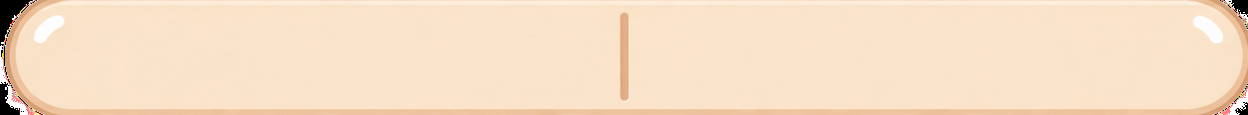
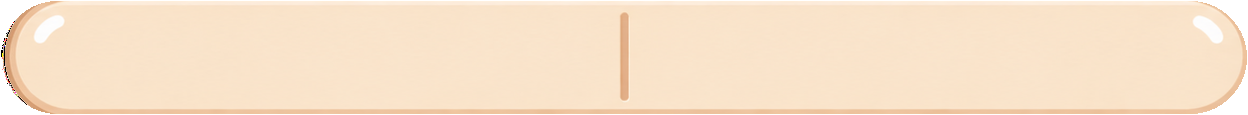
fix: 档案弹窗五项精调（输入框贴宽/标题加空/添加键圆角/滚动条商店同款）+ 二分栏素材胶囊抠边

Changed region(s): [[0.0, 0.6522, 1.0, 1.0], [0.0, 0.0, 1.0, 0.3391]]

diff --git a/petpet/ui/memory_profile.py b/petpet/ui/memory_profile.py
@@ -17,7 +17,6 @@ from PyQt5.QtWidgets import (
     QLabel,
     QLineEdit,
     QScrollArea,
-    QSizePolicy,
     QVBoxLayout,
     QWidget,
 )
@@ -32,6 +31,8 @@ from petpet.chat.memory import (
 from petpet.progression.ui import FeedbackButton
 
 _DIALOG_W, _DIALOG_H = 850, 960
+_EDIT_EXTRA_PX = 52   # 输入框比文字多出的余量（2026-09-11 用户定稿）
+_EDIT_MIN_PX = 150
 _BUCKET_HINTS = {
     "称呼": "你希望 TA 怎么称呼你",
     "作息": "起床、睡觉、上下班时间",
@@ -63,7 +64,7 @@ QPushButton#profileClose {{ background:transparent; border:0;
 QPushButton#profileClose:hover {{ background:#ffcfc5; color:#bf5c52;
     border-radius:14px; }}
 QPushButton#addFact {{ background:#fffaf6; color:#c07a52;
-    border:1px solid #eccdb9; border-radius:12px; padding:3px 12px;
+    border:1px solid #eccdb9; border-radius:15px; padding:6px 20px;
     font-size:15px; font-weight:700;
     font-family:'{APP_FONT_FAMILY}'; }}
 QPushButton#addFact:hover {{ background:#ffe8dc; border-color:#dda993; }}
@@ -85,6 +86,9 @@ QPushButton#cancelProfile:hover {{ background:#ffe8dc;
     border-color:#dda993; }}
 QPushButton#cancelProfile:pressed {{ background:#ffdcd0; }}
 QScrollArea#profileScroll {{ background:transparent; border:0; }}
+QScrollBar:vertical {{ background:transparent; width:11px; margin:4px 0; }}
+QScrollBar::handle:vertical {{ background:#e8bfa8; border-radius:5px; min-height:38px; }}
+QScrollBar::add-line:vertical, QScrollBar::sub-line:vertical {{ height:0; }}
 QWidget#profileScrollBody {{ background:transparent; }}
 QFrame#bucketCard {{ background:#fffdf7; border:1px solid #f0e0d0;
     border-radius:16px; }}
@@ -102,6 +106,9 @@ class MemoryProfileDialog(QDialog):
         self.setAttribute(Qt.WA_TranslucentBackground)
         self.setModal(True)
         self.setFixedSize(_DIALOG_W, _DIALOG_H)
+        # 与聊天窗同位置同大小（2026-09-11 用户定稿）：显式钉到父窗左上角。
+        if parent is not None:
+            self.move(parent.geometry().topLeft())
         self.result_facts = None
         self._facts = {
             bucket: [str(item) for item in ((facts or {}).get(bucket) or [])]
@@ -120,7 +127,7 @@ class MemoryProfileDialog(QDialog):
             os.path.join(SHOP_UI_DIR, "background.png"))
 
         outer = QVBoxLayout(root)
-        outer.setContentsMargins(34, 26, 34, 22)
+        outer.setContentsMargins(40, 30, 40, 22)
         outer.setSpacing(12)
         outer.addLayout(self._build_title_row(pet_name))
 
@@ -129,15 +136,17 @@ class MemoryProfileDialog(QDialog):
         scroll.setFrameShape(QFrame.NoFrame)
         scroll.setWidgetResizable(True)
         scroll.setHorizontalScrollBarPolicy(Qt.ScrollBarAlwaysOff)
+        # 滚动条常驻（2026-09-11 用户定稿）：有/无溢出内容恒等宽；
+        # 样式与商店一致（槽透明 + 珊瑚棕圆角手柄）。
+        scroll.setVerticalScrollBarPolicy(Qt.ScrollBarAlwaysOn)
         body = QWidget()
         body.setObjectName("profileScrollBody")
         self._body_layout = QVBoxLayout(body)
         self._body_layout.setContentsMargins(6, 4, 6, 4)
         self._body_layout.setSpacing(12)
         for bucket in PROFILE_BUCKETS:
-            card = self._build_bucket_card(bucket)
-            card.setSizePolicy(QSizePolicy.Expanding, QSizePolicy.Expanding)
-            self._body_layout.addWidget(card)
+            self._body_layout.addWidget(self._build_bucket_card(bucket))
+        self._body_layout.addStretch(1)
         for bucket in PROFILE_BUCKETS:
             self._refresh_bucket_chrome(bucket)
         scroll.setWidget(body)
@@ -158,7 +167,7 @@ class MemoryProfileDialog(QDialog):
         self._close_btn.clicked.connect(self.reject)
 
         title_col = QVBoxLayout()
-        title_col.setSpacing(0)
+        title_col.setSpacing(8)
         title_col.addWidget(title)
         title_col.addWidget(hint)
 
@@ -191,7 +200,7 @@ class MemoryProfileDialog(QDialog):
         card = QFrame()
         card.setObjectName("bucketCard")
         layout = QVBoxLayout(card)
-        layout.setContentsMargins(22, 16, 22, 18)
+        layout.setContentsMargins(18, 12, 18, 14)
         layout.setSpacing(10)
 
         head = QHBoxLayout()
@@ -232,9 +241,12 @@ class MemoryProfileDialog(QDialog):
         delete.setFixedSize(26, 26)
         delete.setCursor(Qt.PointingHandCursor)
         row = QHBoxLayout()
-        row.setSpacing(6)
-        row.addWidget(edit, 1)
+        row.setSpacing(8)
+        row.addWidget(edit)
         row.addWidget(delete)
+        row.addStretch(1)
+        edit.textChanged.connect(lambda _t, e=edit: self._fit_edit(e))
+        self._fit_edit(edit)
 
         def remove(_checked=False, b=bucket, e=edit):
             for entry in list(self._rows[b]):
@@ -267,6 +279,12 @@ class MemoryProfileDialog(QDialog):
         add = self._add_buttons.get(bucket)
         if add is not None:
             add.setEnabled(n < cap)
+
+    def _fit_edit(self, edit):
+        """输入框宽度贴内容：比文字略宽一点（2026-09-11 用户定稿）。"""
+        text_w = edit.fontMetrics().horizontalAdvance(edit.text())
+        edit.setFixedWidth(max(
+            _EDIT_MIN_PX, text_w + _EDIT_EXTRA_PX))
 
     def collect_edits(self):
         """读 UI 当前内容 → 原始 facts dict（未清洗）。"""

diff --git a/HANDOFF.md b/HANDOFF.md
@@ -51,7 +51,7 @@ D:\Agent_project\Petpet
 
 | 领域 | 内容 |
 |------|------|
-| **纠偏：套装键还原 + 商店二分栏 + 档案弹窗撑满**（2026-09-11 第二批） | 用户指正素材表用途：① **tab_outfit.png 原样还原**（烘焙稿撤下，勿再动宠物面板分栏键）；② 素材表 bar1（2 格）→ **刻度归一化到精确 50%** 后落 `shop/chip_bar_2seg.png`，接 `QFrame#outfitPetSelector` border-image 专属规则（照 giftFilterBar 先例），套装页宠物选择器撤 chipBar 属性（boundary 测试同步）；③ **档案弹窗 620×760 → 850×960 撑满整页**：字号全面放大（标题 30/栏名 24/输入 20/底部键 20），六卡 Expanding 均分填满高度。验证：受影响 59 测试绿 + 实平台渲染验收（二分栏药丸托盘圆头/刻度正常、弹窗六卡填满无大空白）+ 全量后台复跑 + 重启 PID 36964。 |
+| **纠偏：套装键还原 + 商店二分栏 + 档案弹窗三轮调**（2026-09-11 第二/三批） | 用户指正素材表用途：① **tab_outfit.png 原样还原**（烘焙稿撤下，勿再动宠物面板分栏键）；② 素材表 bar1（2 格）→ **刻度归一化精确 50%** + **胶囊 alpha 遮罩抠角**（四角 alpha=0——AI 素材表裁切 bbox 四角必带底色残，遮罩是标准修法）落 `shop/chip_bar_2seg.png`，接 `QFrame#outfitPetSelector` border-image（照 giftFilterBar 先例），套装页宠物选择器撤 chipBar 属性；③ 档案弹窗三轮：撑满 850×960 同聊天窗（`move(parent.geometry().topLeft())`）→ 用户反馈五项精调：**输入框贴内容宽**（`_fit_edit`：max(150, 文字宽+52)，textChanged 实时；行=编辑+删除+弹簧）、标题区加空（spacing 8/边距 40,30）、添加键胶囊（radius 15）、**卡片收高贴内容**（撤 Expanding，尾弹簧，页面下方留爪印背景）、**滚动条常驻+商店同款**（AlwaysOn 恒等宽不挤占 + 槽透明宽 11/手柄 #e8bfa8 圆角 5）。**坑位：视觉模型把米白卡片底（#fffdf7）误读成整行输入框（与输入框底 #fffaf4 每通道差 3）——低对比同色系验收用控件几何 dump 别信视觉**。验证：全量 **783** + 真平台几何 dump（150-222px 固定宽/滚动条 11）+ 重启 PID 31872。 |
 | **分栏素材库 + 聊天档案入口**（2026-09-11） | **套装键换新**（**当日已还原，见上行**）：用户分栏素材表（2172×724 无字奶油千层底板库，程序化列色低谷检测出 2/3/4/6 格四条栏）——取 bar3 左段 + **右端 70px 镜像圆头**（连续胶囊裁段必带平边）+ 通道增益奶黄化（avg 243,210,170）+ **Qt 真平台烘焙「套装」**（幼圆/深棕 (80,52,34) 平涂/约 1/5 图高，对齐 tab_gift 实测风格）→ 379×114；全表+四条栏归档 `tab_bars_sheet_source.png`/`tab_bar_row1..4.png` 备用（未来接 chipBar 按"逐槽拉伸归一化刻度"复用）。**视觉模型 CDN 坑已解：URL 反斜杠/空格百分号编码后可正常解析**。**聊天档案入口（B6）**：聊天窗标题行「档案」键（busy 时随工具排禁用，防后台每 6 轮抽取并发写）→ `ui/memory_profile.py::MemoryProfileDialog` 六栏查看/编辑（上限 3/4/8/6/8/4、maxLength 60、添加满栏禁用、空行保存丢弃、FeedbackButton 保存/取消）；`memory.sanitize_edited_facts` 清洗网兜底旁路输入；保存同步 legacy `user_profile` 并立即落盘。坑位：**未初始化 PyQt 对象属性访问抛 RuntimeError 非 AttributeError（`__new__` 薄壳测试必须补齐依赖属性）**；patch 掉 Dialog 后 handler 改比 `QDialog.Accepted`。验证：全量 **783 passed**（+9）+ 实平台渲染双验收（三键对照/弹窗六栏计数）+ 重启 PID 2084。详见 Obsidian `开发记录6-09-11 分栏素材库与聊天档案入口` |
 | **装修全景 + 平移移除 + 小屋置顶**（2026-09-10） | **装修模式切全景**（用户定稿）：进装修时窗口临时加宽为 左栏 338 + 整幅世界 1800 = 2138（`rendering.decoration_scene_window_geometry`，右缘贴屏、窄屏钳左缘宁可溢出不裁世界），`scene_canvas_rect()` 装修态返回 `(338,0,1800,768)`、镜头归零 `_camera_x=0`，**1:1 无缩放——家具拖拽/命中链路零改动**；`_sync_scene` 改走 `_target_scene_geometry()/_apply_scene_geometry()`（装修态每 tick 也强制全景几何），`toggle_decoration_mode` 切换时即刻应用几何。**左右平移链路整体移除**：`pan_view/begin_pan/end_pan/_repeat_pan/_pan_timer/_pan_direction/view_pan_enabled/left/right_view_button_rect` + geometry 的 `pan_viewport_x/_clamp_viewport_x/HOME_CAMERA_PAN_STEP/HOME_CAMERA_REPEAT_STEP` 全删（根 facade scene_system 是 4 行 star-import 自动跟随，**worktree 里的同名文件是旧变体勿参考**）；`viewport_pinned` 等存档键保留（schema 兼容）。**小屋恢复置顶** `WindowStaysOnTopHint`（翻转 2026-09 早期"不置顶"决定，AGENTS.md 已同步）。验证：全量 **774 passed**（+3 全景/置顶/移除守卫）+ 实平台渲染：同帧可见世界左端落地灯 7.5%/右端书架 62.1%、窗口 2138、置顶 flag True、平移残留零 + 重启 PID 30344。详见 Obsidian `开发记录6-09-10 装修全景与小屋置顶` |
 | **家具正式素材落位 + 装修分栏合并**（2026-09-10） | **用户两张 AI 生成 2×2 家具表落位**：19:53 图=new 批（灯/书架/茶几/藤篮）、20:02 图=legacy 批（地毯/沙发/绿植/墙画重制），`tools/split_furniture_sheet.py` 默认/`--set legacy` 双批次写入 8 张 PNG——**归属判定走程序化特征分析**（视觉模型 CDN 直链含反斜杠路径 400 不可用；绿色占比 18.8% 定绿植、bbox 长宽比 2.28 定落地灯 + 时间戳先验互证），三重校验全过：尺寸与定义逐一相等/不透明像素健康/**内容框内部空洞率符合剪影天然形状**（书架 94% 墙画 92% 地毯 92% 实心、落地灯 44% 为灯杆留空——确认白阈值 240 未蚀奶油色主体）。**装修面板分栏 7 类→4 类**（用户定稿"同类的合并"）：全部(8)/家具(沙发+灯+书架+茶几)/装饰(地毯+墙画+绿植+状态卡)/玩具(藤篮)；`HOME_DECORATION_CATEGORY_BY_ID` 旧键 `rug/sofa/plant/wall_art` 全收编，`furniture`/`toy` 键不动，分栏键宽公式自动适配类目数。验证：全量 **773 passed** + 重启 PID 15812。详见 Obsidian `开发记录6-09-10 家具正式素材落位与装修分栏合并` |
